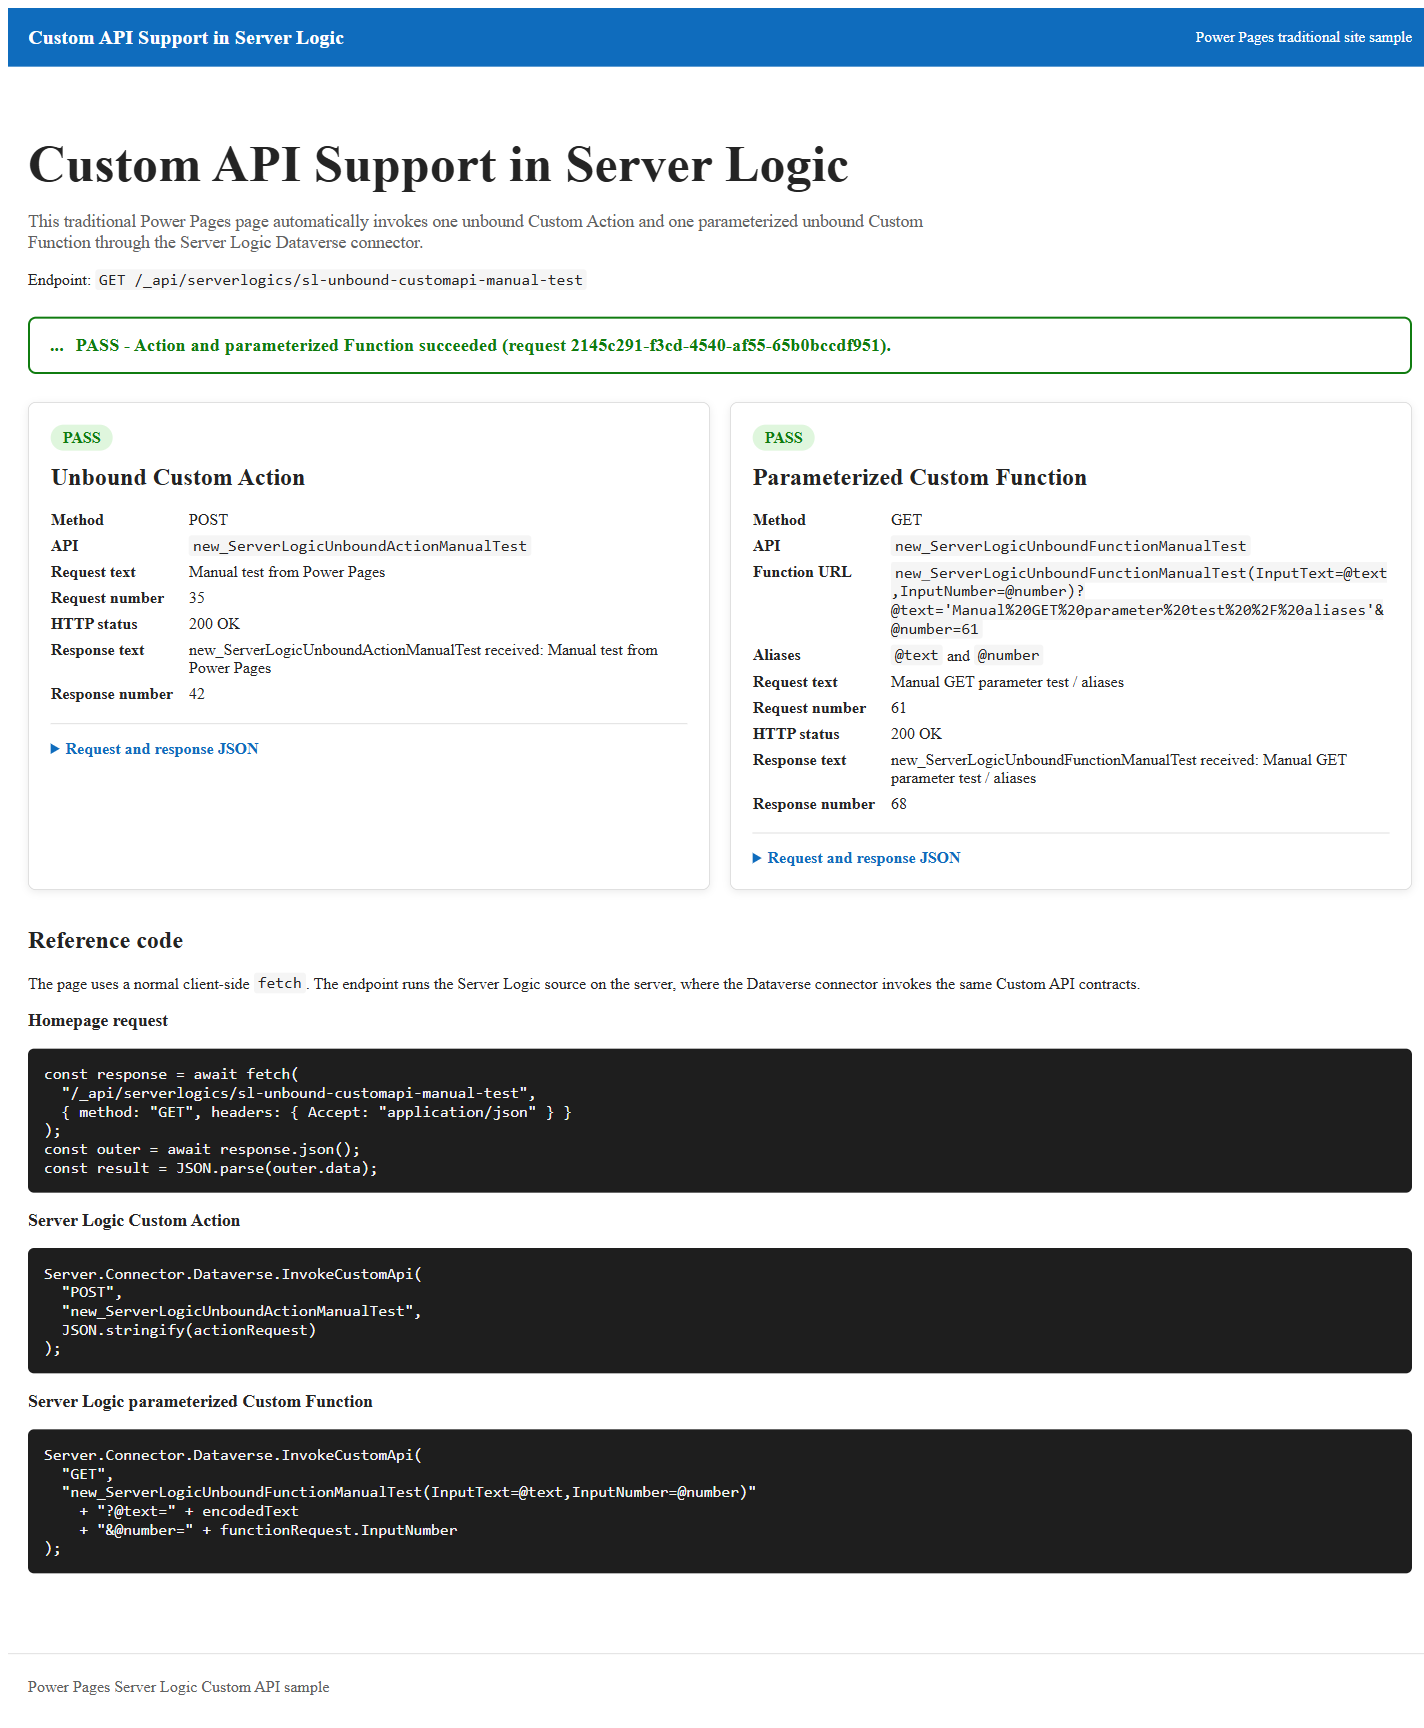
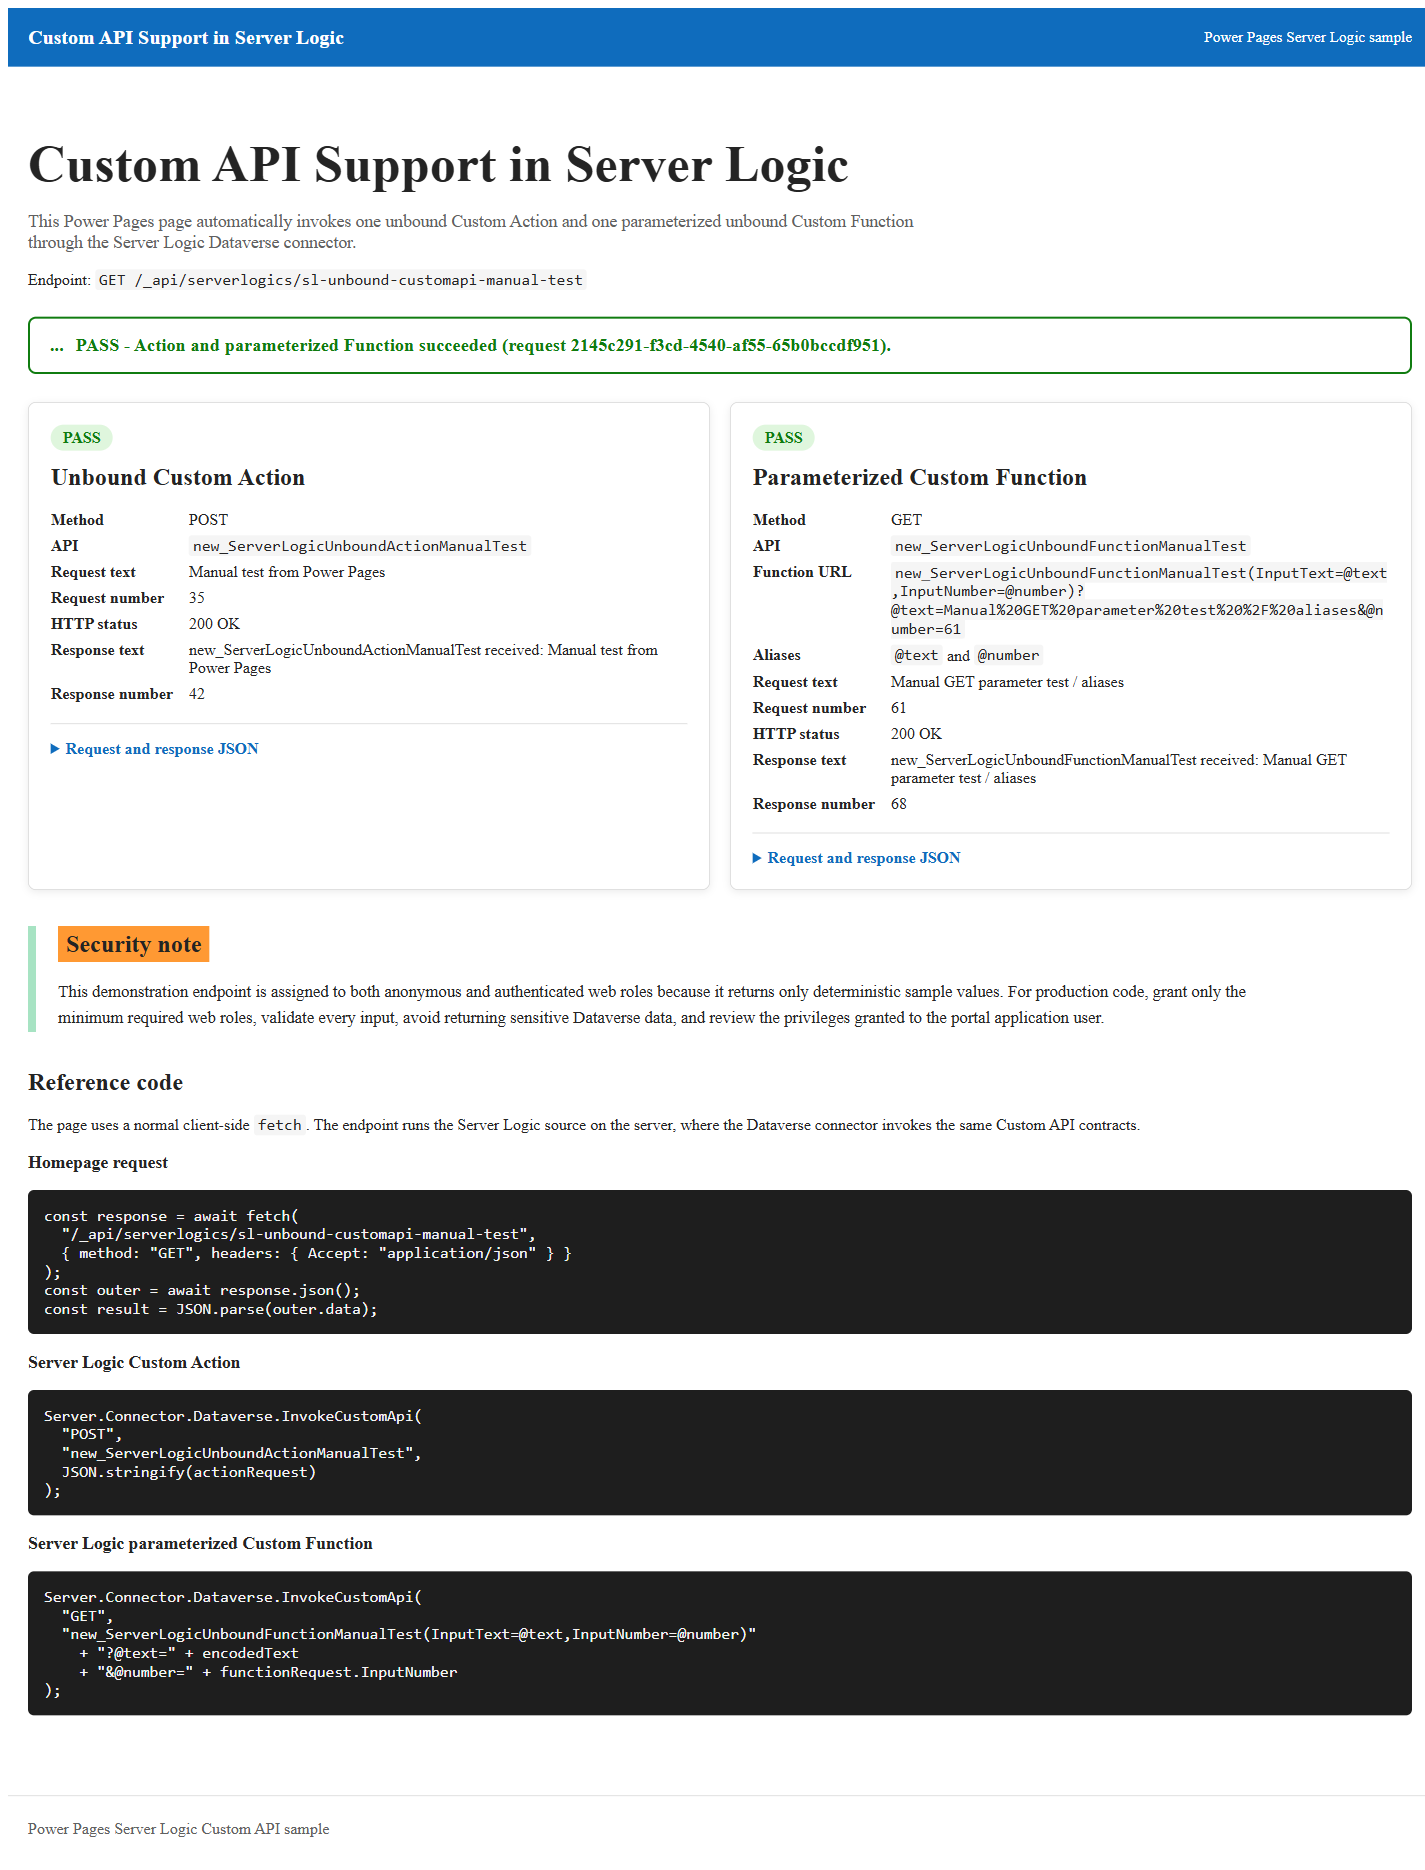
docs: update unbound Custom API sample
Remove Traditional site terminology, add the homepage security guidance, and publish the domain-safe 1.0.0.2 solution package.

diff --git a/samples/server-logic/unbound-custom-api/source/homepage-content.html b/samples/server-logic/unbound-custom-api/source/homepage-content.html
@@ -154,6 +154,26 @@
     margin-top: 36px;
   }
 
+  .custom-api-sample .sample-security-note {
+    border-left: 8px solid #a7e3c3;
+    margin-top: 36px;
+    padding-left: 22px;
+  }
+
+  .custom-api-sample .sample-security-note h2 {
+    background: #ff9933;
+    display: inline-block;
+    margin: 0 0 16px;
+    padding: 4px 8px;
+  }
+
+  .custom-api-sample .sample-security-note p {
+    font-size: 1.05rem;
+    line-height: 1.6;
+    margin: 0;
+    max-width: 1200px;
+  }
+
   @media (max-width: 600px) {
     .custom-api-sample .sample-grid {
       grid-template-columns: 1fr;
@@ -168,7 +188,7 @@
 <main class="custom-api-sample" aria-labelledby="custom-api-sample-title">
   <h1 id="custom-api-sample-title">Custom API Support in Server Logic</h1>
   <p class="sample-lead">
-    This traditional Power Pages page automatically invokes one unbound Custom Action and one
+    This Power Pages page automatically invokes one unbound Custom Action and one
     parameterized unbound Custom Function through the Server Logic Dataverse connector.
   </p>
   <p>
@@ -236,6 +256,16 @@
       </details>
     </section>
   </div>
+
+  <section class="sample-security-note" aria-labelledby="sample-security-note-title">
+    <h2 id="sample-security-note-title">Security note</h2>
+    <p>
+      This demonstration endpoint is assigned to both anonymous and authenticated web roles
+      because it returns only deterministic sample values. For production code, grant only the
+      minimum required web roles, validate every input, avoid returning sensitive Dataverse data,
+      and review the privileges granted to the portal application user.
+    </p>
+  </section>
 
   <section class="sample-reference" aria-labelledby="sample-reference-title">
     <h2 id="sample-reference-title">Reference code</h2>

diff --git a/samples/server-logic/unbound-custom-api/source/header.html b/samples/server-logic/unbound-custom-api/source/header.html
@@ -3,6 +3,6 @@
     <a href="/" aria-label="Custom API Support in Server Logic home" style="color:#fff;font-size:1.25rem;font-weight:700;text-decoration:none;">
       Custom API Support in Server Logic
     </a>
-    <span style="font-size:0.95rem;">Power Pages traditional site sample</span>
+    <span style="font-size:0.95rem;">Power Pages Server Logic sample</span>
   </div>
 </header>

diff --git a/samples/server-logic/unbound-custom-api/readme.md b/samples/server-logic/unbound-custom-api/readme.md
@@ -7,20 +7,21 @@ unbound Dataverse Custom API:
 - A **Custom Function** by using `GET` with OData parameter aliases and no
   request body.
 
-The importable unmanaged solution includes a traditional Power Pages site,
-its ready-to-run home page, server logic, two Custom APIs, their parameters
-and response properties, and a compiled, signed Dataverse plug-in. No code
-compilation, page editing, or plug-in registration is required after import.
+The importable unmanaged solution includes an enhanced-data-model Power Pages
+site, its ready-to-run home page, server logic, two Custom APIs, their
+parameters and response properties, and a compiled, signed Dataverse plug-in.
+No code compilation, page editing, or plug-in registration is required after
+import.
 
-![Traditional sample home page showing successful Custom Action and parameterized Custom Function results](./screenshot.png)
+![Sample home page showing successful Custom Action and parameterized Custom Function results](./screenshot.png)
 
 ## Solution contents
 
 | Component | Value |
 | --- | --- |
-| Solution | `ServerLogicUnboundCustomApiSample_1_0_0_1.zip` |
+| Solution | `ServerLogicUnboundCustomApiSample_1_0_0_2.zip` |
 | Site | `Custom API Support in Server Logic` |
-| Site type | Traditional enhanced-data-model site (not a code site) |
+| Site type | Enhanced-data-model site (not a code site) |
 | Home page | Automatically invokes the server logic endpoint and renders both results |
 | Server logic endpoint | `sl-unbound-customapi-manual-test` |
 | Custom Action | `new_ServerLogicUnboundActionManualTest` |
@@ -42,7 +43,7 @@ compilation, page editing, or plug-in registration is required after import.
 ## Import and activate the sample
 
 1. Download
-   [`ServerLogicUnboundCustomApiSample_1_0_0_1.zip`](./ServerLogicUnboundCustomApiSample_1_0_0_1.zip).
+   [`ServerLogicUnboundCustomApiSample_1_0_0_2.zip`](./ServerLogicUnboundCustomApiSample_1_0_0_2.zip).
 2. In [Power Apps](https://make.powerapps.com), open the target environment,
    select **Solutions**, and import the ZIP file.
 3. Open [Power Pages](https://make.powerpages.microsoft.com) in the same
@@ -52,7 +53,9 @@ compilation, page editing, or plug-in registration is required after import.
 5. Publish all customizations and wait for the site to finish provisioning.
 
 Site reactivation is required after the first import because a Power Pages site
-address cannot be provisioned by a portable solution package.
+address cannot be provisioned by a portable solution package. The package
+intentionally omits a primary domain so importing a newer sample version does
+not replace the address of an already activated site.
 
 ## Run the sample
 
@@ -196,13 +199,13 @@ Its two inputs are configured as Custom API request parameters:
 ## Source files
 
 - [`source/homepage-content.html`](./source/homepage-content.html) contains the
-  traditional page markup and styles included in the solution.
+  page markup and styles included in the solution.
 - [`source/homepage.js`](./source/homepage.js) invokes the Server Logic endpoint
   and renders the action and function results. The dedicated home Web Template
   in the solution embeds this script after the editable page content.
 - [`source/header.html`](./source/header.html) and
-  [`source/footer.html`](./source/footer.html) keep the imported traditional
-  site self-contained and free of starter-template snippet dependencies.
+  [`source/footer.html`](./source/footer.html) keep the imported site
+  self-contained and free of starter-template snippet dependencies.
 - [`source/sl-unbound-customapi-manual-test.sl`](./source/sl-unbound-customapi-manual-test.sl)
   contains the server logic included in the solution.
 - [`source/EchoPlugin.cs`](./source/EchoPlugin.cs) contains the equivalent
@@ -214,8 +217,8 @@ Its two inputs are configured as Custom API request parameters:
 This demonstration endpoint is assigned to both anonymous and authenticated
 web roles because it returns only deterministic sample values. For production
 code, grant only the minimum required web roles, validate every input, avoid
-returning sensitive Dataverse data, and review the privileges of the plug-in
-execution user.
+returning sensitive Dataverse data, and review the privileges granted to the
+portal application user.
 
 ## Troubleshooting
 
@@ -225,7 +228,7 @@ execution user.
   that the imported Home Web Template is still assigned to the Home Page
   Template.
 - **The browser sends two requests to the server logic endpoint:** import
-  version `1.0.0.1` or later, publish all customizations, and clear the site's
+  version `1.0.0.2` or later, publish all customizations, and clear the site's
   configuration cache. This version removes legacy page JavaScript and also
   prevents duplicate initialization.
 - **Custom API not found:** confirm the two Custom APIs and the plug-in assembly
